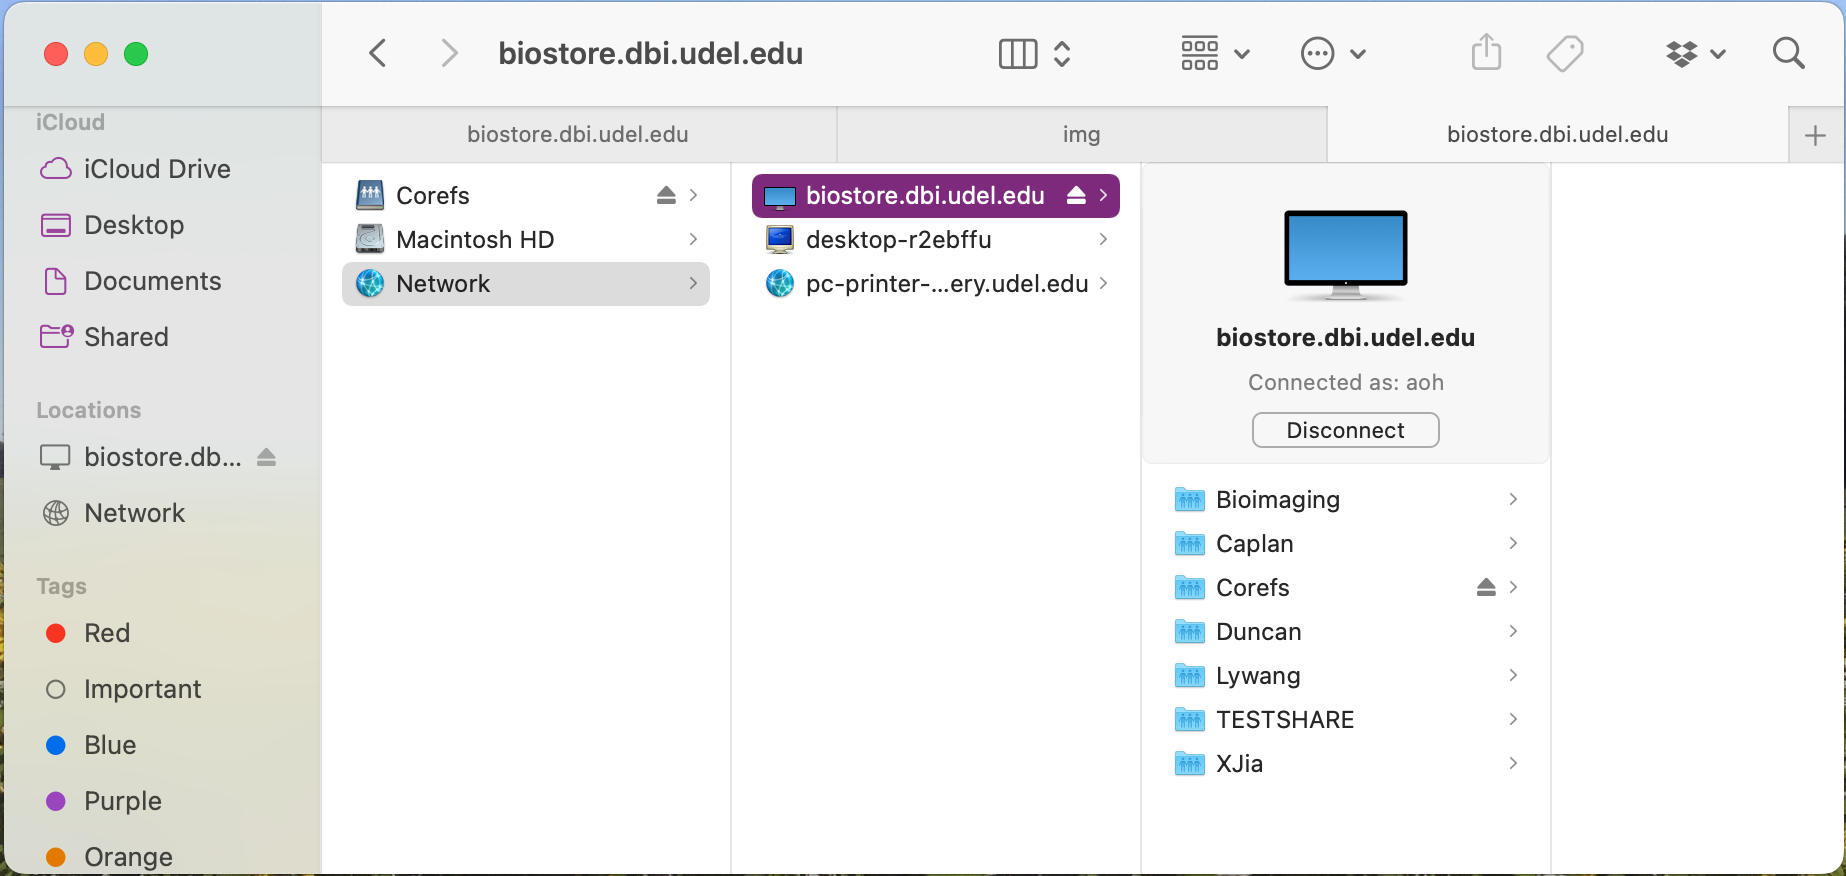
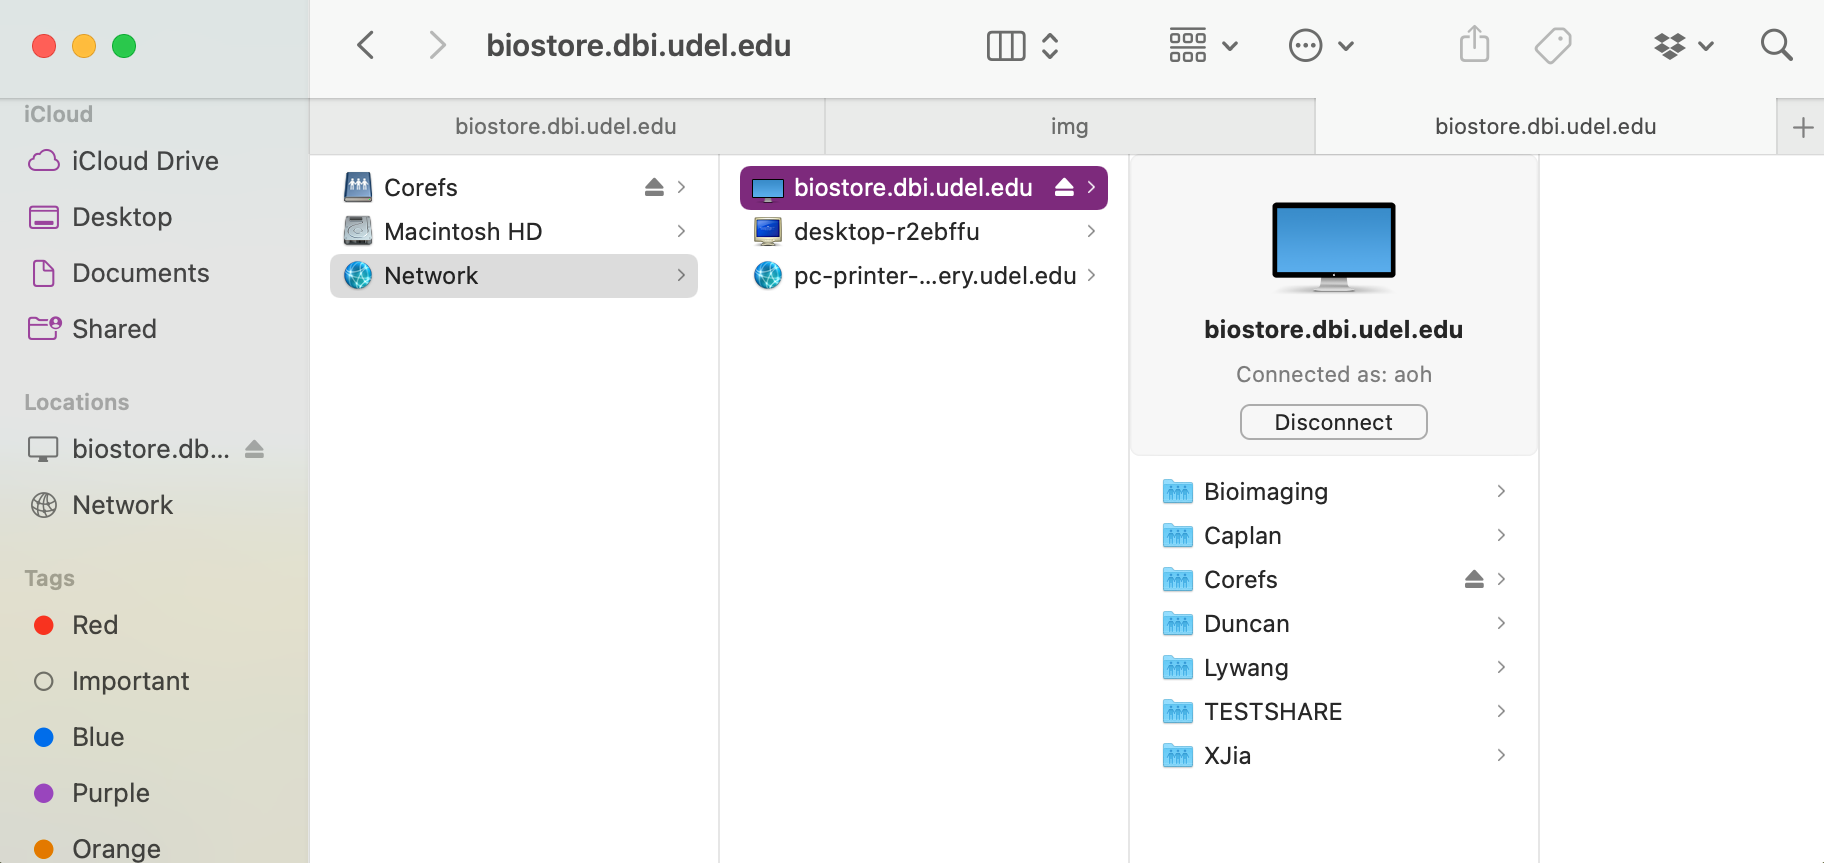
Touch up Mac images

diff --git a/_docs_src/src/mac_connect.md b/_docs_src/src/mac_connect.md
@@ -6,23 +6,23 @@ You will be using a file sharing protocol called CIFS (Common Internet File Syst
 
 2\. Drop down the Go menu and select the option "Connect to Server."  A dialogue box of the same name should appear.
 
-<img src="https://udel-cbcb.github.io/biostore_docs/img/finder_go_dropdown.png" alt="Go menu selection" width="400" />
+<img src="https://udel-cbcb.github.io/biostore_docs/img/finder_go_dropdown.png" alt="Go menu selection" width="350" />
 
 3\. In the dropdown box at the top, enter `cifs://biostore.dbi.udel.edu/` and hit "Connect."
 
-<img src="https://udel-cbcb.github.io/biostore_docs/img/connect_to_server.png" alt="Connect to server" width="500" />
+<img src="https://udel-cbcb.github.io/biostore_docs/img/connect_to_server.png" alt="Connect to server" width="400" />
 
 4\. Another dialogue box will appear and ask you which volumes you want to mount.  Here, you should select the name of your group (most commonly, the last name of the PI) then hit "OK".  You will only have access to groups that you are a part of.
 
-<img src="https://udel-cbcb.github.io/biostore_docs/img/select_volumes.png" alt="Select BioStore volume" width="500" />
+<img src="https://udel-cbcb.github.io/biostore_docs/img/select_volumes.png" alt="Select BioStore volume" width="400" />
 
 As an alternative, you can compress steps 3 and 4 into a single step by including the name of the volume in the server entry box, as below:
 
-<img src="https://udel-cbcb.github.io/biostore_docs/img/connect_to_server_corefs.png" alt="Connect to server without selecting volume" width="500" />
+<img src="https://udel-cbcb.github.io/biostore_docs/img/connect_to_server_corefs.png" alt="Connect to server without selecting volume" width="400" />
 
 5\. Finally, enter your username and password into the new dialogue box that appears.  Make sure that the option "Registered User" is selected, and then enter your username and password.  Your username will be `name@biostore.isilon`, where `name` is the beginning of your udel email (the part before @udel.edu).  Your password should have been set up in previous steps.  After entering your username and password, hit "Connect."  A progress bar will appear.
 
-<img src="https://udel-cbcb.github.io/biostore_docs/img/username_and_password_mac.png" alt="Enter username and password" width="500" />
+<img src="https://udel-cbcb.github.io/biostore_docs/img/username_and_password_mac.png" alt="Enter username and password" width="400" />
 
 6\. You will now be connected to BioStore!  A new Finder window or tab should be opened automatically and display some of the directories on BioStore.  You will only be able to access directories where you have permissions and others will appear empty.  If your view mode is set to "as Columns" your view should look something like this:
 
